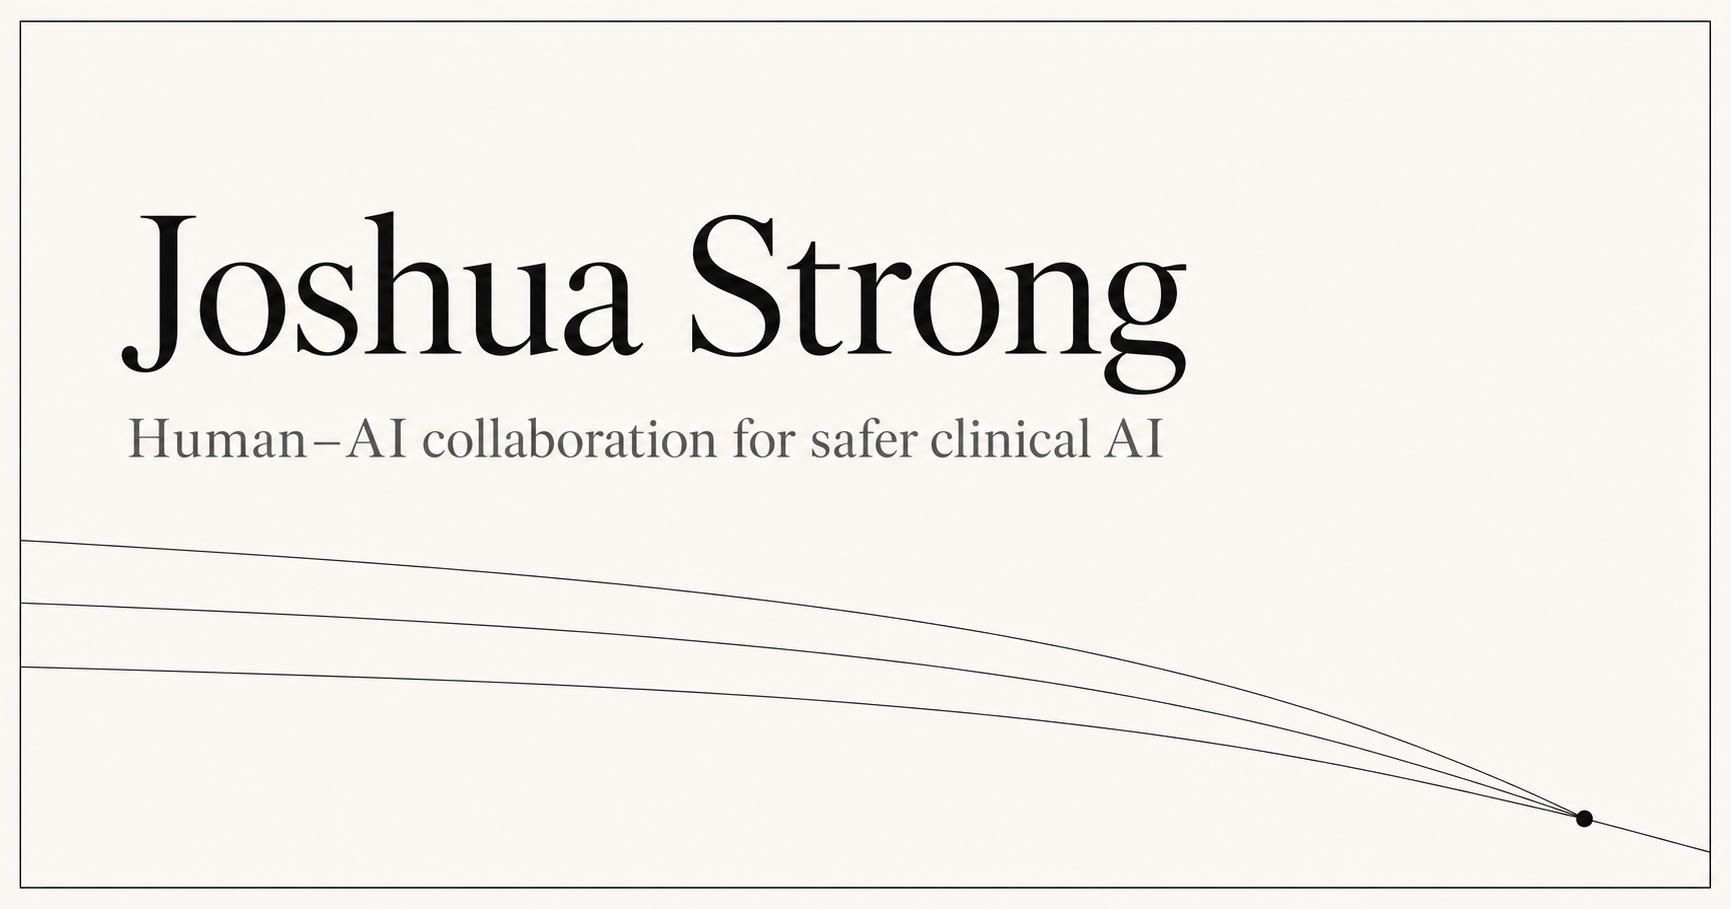
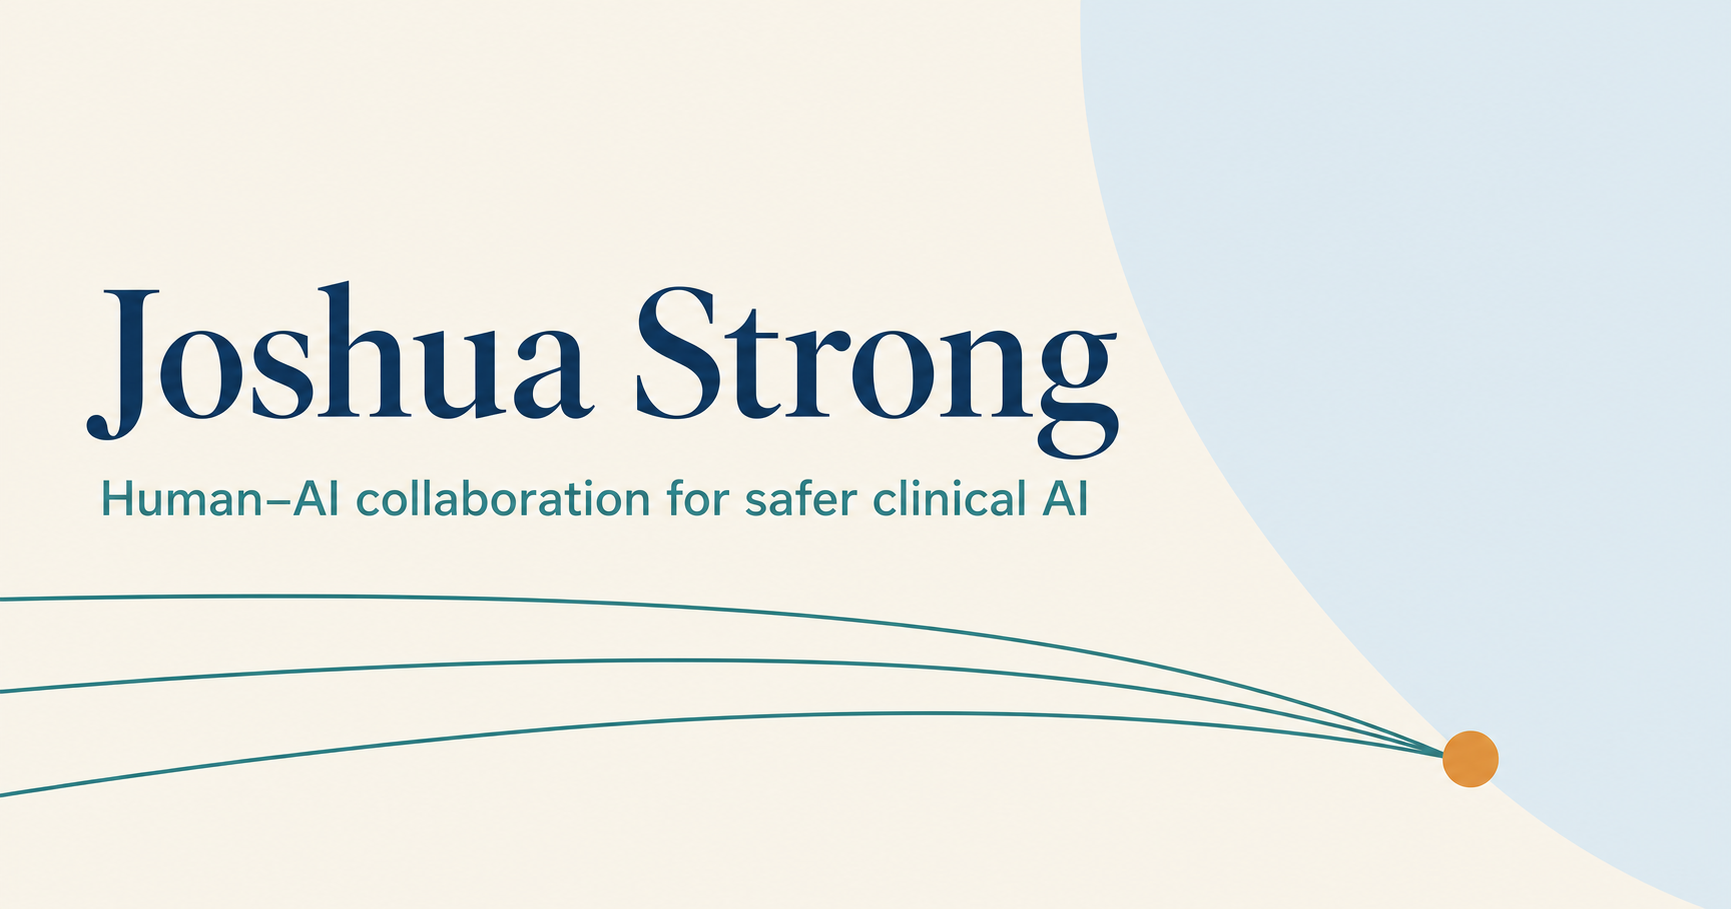
Add colour palette to academic website

diff --git a/app/globals.css b/app/globals.css
@@ -1,11 +1,15 @@
 @import "tailwindcss";
 
 :root {
-  --paper: #fafaf7;
-  --ink: #171816;
-  --muted: #666861;
-  --line: #d8d9d2;
-  --soft: #efefe9;
+  --paper: #f5f0e6;
+  --surface: #fffdf8;
+  --ink: #153a5b;
+  --body: #263f52;
+  --muted: #61717c;
+  --line: #c6d5dc;
+  --soft: #dceaf1;
+  --accent: #236a70;
+  --amber: #d99145;
 }
 
 * {
@@ -19,7 +23,7 @@ html {
 body {
   margin: 0;
   background: var(--paper);
-  color: var(--ink);
+  color: var(--body);
   font-family:
     "Helvetica Neue", Helvetica, Arial, sans-serif;
   font-size: 16px;
@@ -34,7 +38,7 @@ a {
 }
 
 a:focus-visible {
-  outline: 2px solid var(--ink);
+  outline: 2px solid var(--accent);
   outline-offset: 5px;
 }
 
@@ -47,12 +51,13 @@ a:focus-visible {
   justify-content: space-between;
   width: 100%;
   padding: 22px clamp(24px, 5vw, 72px);
-  border-bottom: 1px solid rgba(23, 24, 22, 0.12);
-  background: rgba(250, 250, 247, 0.92);
+  border-bottom: 1px solid rgba(21, 58, 91, 0.14);
+  background: rgba(245, 240, 230, 0.92);
   backdrop-filter: blur(12px);
 }
 
 .wordmark {
+  color: var(--ink);
   font-size: 0.9rem;
   font-weight: 650;
   letter-spacing: -0.01em;
@@ -71,7 +76,7 @@ nav a {
 }
 
 nav a:hover {
-  color: var(--ink);
+  color: var(--accent);
 }
 
 .page-shell {
@@ -86,12 +91,15 @@ nav a:hover {
   align-items: end;
   min-height: 650px;
   padding: clamp(92px, 12vw, 164px) 0 76px;
+  background: var(--soft);
+  box-shadow: 0 0 0 100vmax var(--soft);
+  clip-path: inset(0 -100vmax);
 }
 
 .eyebrow,
 .section-label {
   margin: 0;
-  color: var(--muted);
+  color: var(--accent);
   font-size: 0.68rem;
   font-weight: 650;
   letter-spacing: 0.14em;
@@ -106,6 +114,7 @@ h1 {
   font-weight: 500;
   letter-spacing: -0.075em;
   line-height: 0.84;
+  color: var(--ink);
 }
 
 .hero-statement {
@@ -115,6 +124,7 @@ h1 {
   font-weight: 420;
   letter-spacing: -0.04em;
   line-height: 1.08;
+  color: var(--ink);
 }
 
 .hero-summary {
@@ -146,7 +156,9 @@ h1 {
 
 .hero-links a,
 .text-link {
+  color: var(--accent);
   font-size: 0.85rem;
+  font-weight: 550;
 }
 
 .portrait {
@@ -158,8 +170,8 @@ h1 {
   width: 100%;
   height: auto;
   aspect-ratio: 3 / 4;
-  border: 1px solid var(--line);
-  filter: grayscale(100%);
+  border: 8px solid var(--surface);
+  box-shadow: 14px 14px 0 var(--accent);
   object-fit: cover;
   object-position: 50% 36%;
 }
@@ -190,6 +202,7 @@ h1 {
   font-weight: 450;
   letter-spacing: -0.045em;
   line-height: 1.08;
+  color: var(--ink);
 }
 
 .about-copy > p {
@@ -215,7 +228,7 @@ h1 {
 .item-number,
 .publication-year {
   padding-top: 3px;
-  color: var(--muted);
+  color: var(--accent);
   font-family: "SFMono-Regular", Consolas, monospace;
   font-size: 0.7rem;
 }
@@ -227,12 +240,20 @@ h1 {
   font-weight: 520;
   letter-spacing: -0.025em;
   line-height: 1.25;
+  color: var(--ink);
 }
 
 .research-item p {
   max-width: 650px;
   margin: 12px 0 0;
   color: var(--muted);
+}
+
+#research,
+#cv {
+  background: var(--surface);
+  box-shadow: 0 0 0 100vmax var(--surface);
+  clip-path: inset(0 -100vmax);
 }
 
 .section-heading-row {
@@ -256,6 +277,7 @@ h1 {
 }
 
 .publication h3 a {
+  color: var(--accent);
   text-decoration: none;
 }
 
@@ -309,6 +331,7 @@ h1 {
   font-weight: 520;
   letter-spacing: -0.025em;
   line-height: 1.25;
+  color: var(--ink);
 }
 
 .cv-entry p {
@@ -336,6 +359,7 @@ h1 {
 }
 
 .service-grid span {
+  color: var(--ink);
   font-size: 0.84rem;
   font-weight: 600;
 }
@@ -348,12 +372,13 @@ h1 {
 .contact {
   margin-top: 20px;
   padding: 126px clamp(24px, 7vw, 92px);
+  border-top: 8px solid var(--amber);
   background: var(--ink);
   color: var(--paper);
 }
 
 .contact .eyebrow {
-  color: #a8aaa3;
+  color: #f0b874;
 }
 
 .contact h2 {
@@ -365,6 +390,7 @@ h1 {
   display: inline-block;
   margin-top: 52px;
   font-size: clamp(1rem, 2.2vw, 1.45rem);
+  color: #a9d9dc;
 }
 
 footer {
